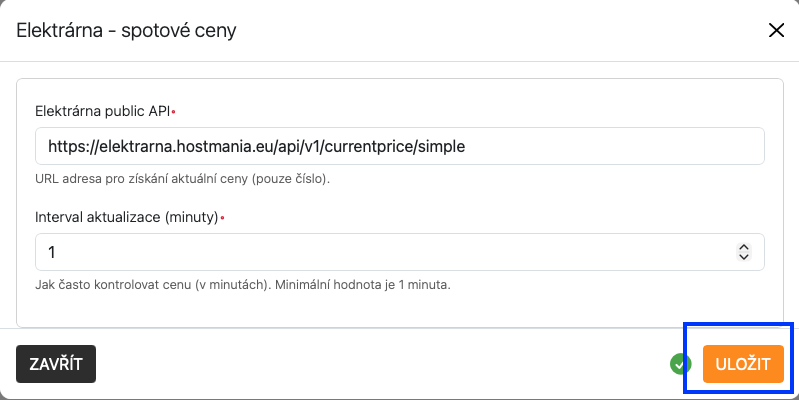
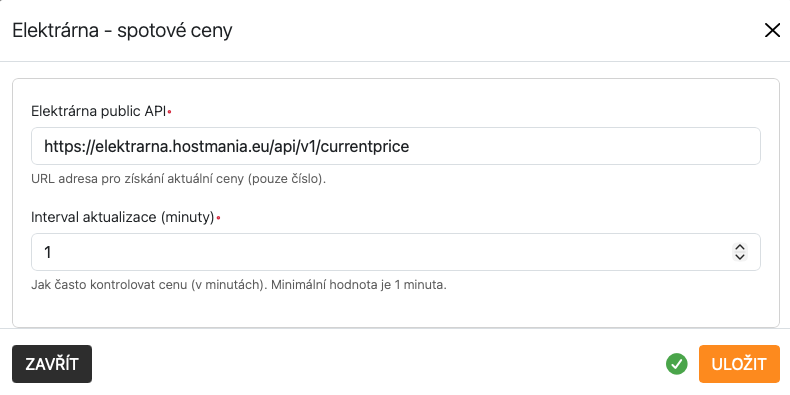
add price levels

diff --git a/src/platformAccessory.ts b/src/platformAccessory.ts
@@ -2,6 +2,17 @@ import type { CharacteristicValue, PlatformAccessory, Service } from 'homebridge
 
 import type { ElektrarnaHomebridgePlatform } from './platform.js';
 
+interface ElektrarnaResponse {
+  hour: number;
+  minute: number;
+  priceEur: number;
+  priceCzk: number;
+  priceCzkVat: number;
+  priceCzkKwh: number;
+  exchRateCzkEur: number;
+  priceLevel: string;
+}
+
 /**
  * Platform Accessory
  * An instance of this class is created for each accessory your platform registers
@@ -9,6 +20,9 @@ import type { ElektrarnaHomebridgePlatform } from './platform.js';
  */
 export class ElektrarnaPlatformAccessory {
   private service: Service;
+  private serviceLow: Service;
+  private serviceMedium: Service;
+  private serviceHigh: Service;
 
   constructor(
     private readonly platform: ElektrarnaHomebridgePlatform,
@@ -20,20 +34,33 @@ export class ElektrarnaPlatformAccessory {
       .setCharacteristic(this.platform.Characteristic.Model, 'Elektrarna public API')
       .setCharacteristic(this.platform.Characteristic.SerialNumber, '100001');
 
-    // get the TemperatureSensor service if it exists, otherwise create a new TemperatureSensor service
+    // --- Temperature Sensor (Price) ---
     this.service = this.accessory.getService(this.platform.Service.TemperatureSensor) || this.accessory.addService(this.platform.Service.TemperatureSensor);
-
-    // set the service name
     this.service.setCharacteristic(this.platform.Characteristic.Name, accessory.context.device.displayName);
 
-    // register handlers for the CurrentTemperature Characteristic
     this.service.getCharacteristic(this.platform.Characteristic.CurrentTemperature)
       .setProps({
-        minValue: -1000, // Allow negative prices
-        maxValue: 1000,  // Allow high prices
-        minStep: 0.01,    // Allow 2 decimal places precision
+        minValue: -1000,
+        maxValue: 1000,
+        minStep: 0.01,
       })
       .onGet(this.getCurrentPrice.bind(this));
+
+    // --- Contact Sensor (Low Price) ---
+    this.serviceLow = this.accessory.getServiceById(this.platform.Service.ContactSensor, 'low') 
+      || this.accessory.addService(this.platform.Service.ContactSensor, 'Cena: Nízká', 'low');
+    this.serviceLow.setCharacteristic(this.platform.Characteristic.Name, 'Cena: Nízká');
+
+    // --- Contact Sensor (Medium Price) ---
+    this.serviceMedium = this.accessory.getServiceById(this.platform.Service.ContactSensor, 'medium') 
+      || this.accessory.addService(this.platform.Service.ContactSensor, 'Cena: Střední', 'medium');
+    this.serviceMedium.setCharacteristic(this.platform.Characteristic.Name, 'Cena: Střední');
+
+    // --- Contact Sensor (High Price) ---
+    this.serviceHigh = this.accessory.getServiceById(this.platform.Service.ContactSensor, 'high') 
+      || this.accessory.addService(this.platform.Service.ContactSensor, 'Cena: Vysoká', 'high');
+    this.serviceHigh.setCharacteristic(this.platform.Characteristic.Name, 'Cena: Vysoká');
+
 
     // Calculate refresh interval (default 1 minute, minimum 1 minute)
     let intervalMinutes = this.platform.config.refreshInterval || 1;
@@ -61,21 +88,26 @@ export class ElektrarnaPlatformAccessory {
    */
   async getCurrentPrice(): Promise<CharacteristicValue> {
     // Get URL from config, or use default if not set
-    const apiUrl = this.platform.config.apiUrl || 'https://elektrarna.hostmania.eu/api/v1/currentprice/simple';
+    const apiUrl = this.platform.config.apiUrl || 'https://elektrarna.hostmania.eu/api/v1/currentprice';
 
     try {
       const response = await fetch(apiUrl);
       if (!response.ok) {
         throw new Error(`HTTP error! status: ${response.status}`);
       }
-      const price = await response.text();
-      const priceValue = parseFloat(price);
+      
+      const data = await response.json() as ElektrarnaResponse;
+      const priceValue = data.priceCzkKwh;
 
-      if (isNaN(priceValue)) {
+      if (typeof priceValue !== 'number' || isNaN(priceValue)) {
         throw new Error('Received price is not a number');
       }
 
       this.platform.log.debug('Get Characteristic CurrentPrice ->', priceValue);
+      this.platform.log.debug('Current Price Level ->', data.priceLevel);
+
+      // Update Level Sensors
+      this.updateLevelSensors(data.priceLevel);
 
       // Return the raw value
       return priceValue;
@@ -83,5 +115,34 @@ export class ElektrarnaPlatformAccessory {
       this.platform.log.error('Failed to fetch current price:', error);
       throw new this.platform.api.hap.HapStatusError(this.platform.api.hap.HAPStatus.SERVICE_COMMUNICATION_FAILURE);
     }
+  }
+
+  /**
+   * Updates the 3 contact sensors based on the current level
+   */
+  updateLevelSensors(level: string) {
+    // CONTACT_NOT_DETECTED = Open (Otevřeno) -> This is what we want when ACTIVE
+    // CONTACT_DETECTED = Closed (Zavřeno) -> This is what we want when INACTIVE
+    
+    const activeState = this.platform.Characteristic.ContactSensorState.CONTACT_NOT_DETECTED;
+    const inactiveState = this.platform.Characteristic.ContactSensorState.CONTACT_DETECTED;
+
+    // Low
+    this.serviceLow.updateCharacteristic(
+      this.platform.Characteristic.ContactSensorState,
+      level === 'low' ? activeState : inactiveState,
+    );
+
+    // Medium
+    this.serviceMedium.updateCharacteristic(
+      this.platform.Characteristic.ContactSensorState,
+      level === 'medium' ? activeState : inactiveState,
+    );
+
+    // High
+    this.serviceHigh.updateCharacteristic(
+      this.platform.Characteristic.ContactSensorState,
+      level === 'high' ? activeState : inactiveState,
+    );
   }
 }

diff --git a/README.md b/README.md
@@ -53,8 +53,17 @@ Vzniká tak nepřesnost +- 0,25Kč, se kterou je třeba při automatizaci počí
 <p><img src="/images/install5.png" width="150"></p>
 
 10. Nyní by se měla spotová cena objevit v _Apple Home_ jako teplotní senzor a můžete si ho zobrazit nebo na něj navázat automatizaci.
+Přibyly také tři kontaktní senzory, které signalizují cenovou úroveň (nízká, střední, vysoká) a lze je také využít jako signál pro další zařízení. Pokud je kontaktní čidlo rozepnuto (otevřeno), platí daná úroveň.
+V _Homebridge_ je uvidíte správně pojmenované, _Apple Home_ je může pojmenovat všechny stejně. V takovém případě musíte zjistit, který je který a pojmenovat si je sami.
+
+Všechny cenové úseky (15min) jsou rozděleny rovnoměrně do tří cenových skupin: nízká, střední, vysoká.
+Tj. 8 hodin (32 čtvrthodin) je nejlevnějších, podobně to platí i pro střední a vysoké. Nejde ale o souvislý blok 8 hodin! Vizte web [Elektrárna](https://elektrarna.hostmania.eu)
 
 
 <p><img src="/images/screenshot-homekit1.png" width="500"></p>
 
 <p><img src="/images/screenshot-homekit2.png" width="500"></p>
+
+<p><img src="/images/screenshot-homekit3.png" width="500"></p>
+
+<p><img src="/images/screenshot-homekit4.png" width="500"></p>
